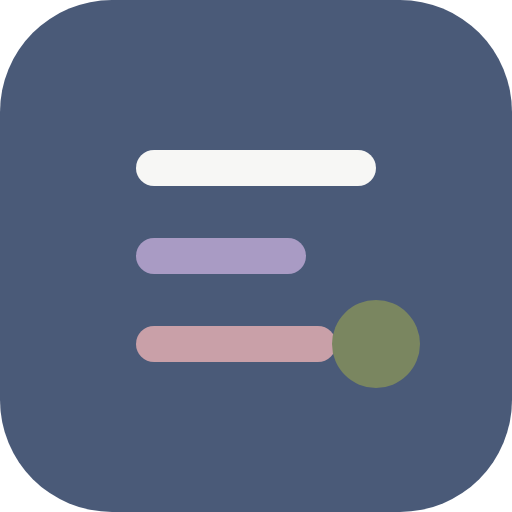
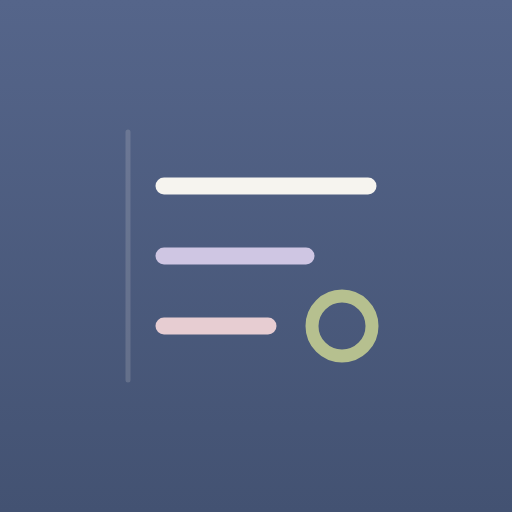
홈 화면 앱 아이콘 새로 그림 (가는 세 줄 + 고리 · 그라데이션 · 6가지 + 단색) (#181)
Claude-Session: https://claude.ai/code/session_017BV2gW13GbSCur7JoCaXgo

diff --git a/src/lib/whatsnew.js b/src/lib/whatsnew.js
@@ -1,5 +1,6 @@
 // 업데이트 뒤 처음 열 때 조용히 한 줄로 알려 줄 '새로워진 점' (맨 위가 최신)
 export const CHANGES = [
+  { v: '2026.11.15', items: ['홈 화면 앱 아이콘을 새로 그림: 가는 세 줄 + 작은 고리 · 은은한 그라데이션 (기본 · 라이트 · 다크 · 모노 · 올리브 · 틴트용) — 홈 화면에서 지우고 Safari 에서 다시 추가하면 바뀌어요'] },
   { v: '2026.11.14', items: ['알림을 누르면 그 할 일 · 일정 · 하루 마감 화면이 바로 열려요 (앱이 이미 열려 있어도)', '받을 알림 종류를 하나씩 켜고 끄기 (할 일 · 일정 · 학원 · 약 · 아침 브리핑 · 저녁 마감)', '새 일정 · 학원 기본 알림 (예: 10분 전) · 늦게 도착한 알림은 묶기 · 보내지 않기 · 하나씩 중에 고르기', '저녁 마감 알림: 오늘 공부 · 남은 할 일, 누르면 하루 마감하기 (마감한 날은 안 와요)', '정확한 시간에 받기: 1분마다 깨우기 안내 · 토큰 확인 버튼 · 값 복사', '아이콘을 더 가늘고 둥글게 새로 그림'] },
   { v: '2026.11.13', items: ['생각 주차장: 타이머가 도는 동안 떠오른 생각 · 할 일을 한 줄씩 적어 두면, 공부를 끝낼 때 받은 편지함으로', '아침 브리핑 알림: 오늘 일정(학원 포함) · 오늘의 Top 3 · D-day 를 알림 하나로 (설정 › 알림 › 아침 브리핑 시각, 비우면 끔)', '노트 체크 줄에 날짜: 줄 끝 달력을 눌러 날짜를 고르면 그날 할 일 · 캘린더 · 위젯에 같이 떠요 (노트 › 할 일 모음에서도)'] },
   { v: '2026.11.12', items: ['공부 기록 시간 조절을 1분 단위로: −/＋ 한 번에 1분 · 누르고 있으면 빠르게 · 빠른 버튼 +5분 · +10분 · +30분 · +1시간'] },
